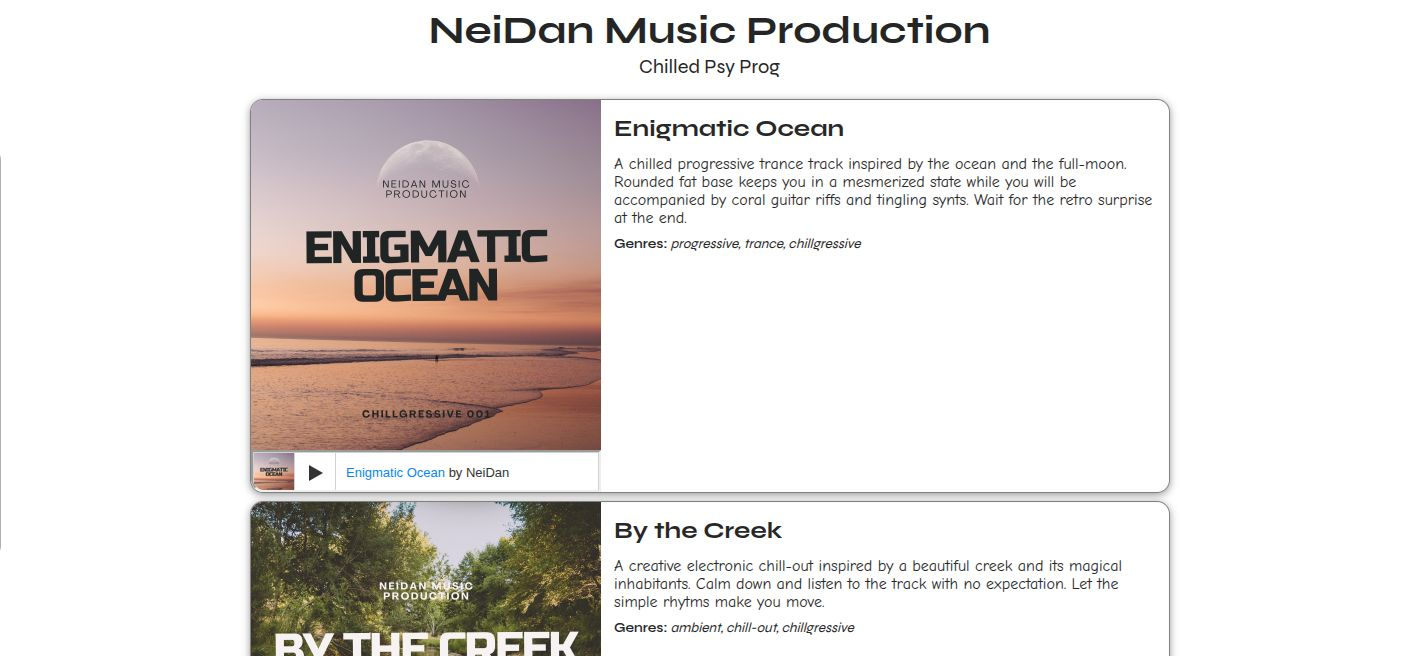
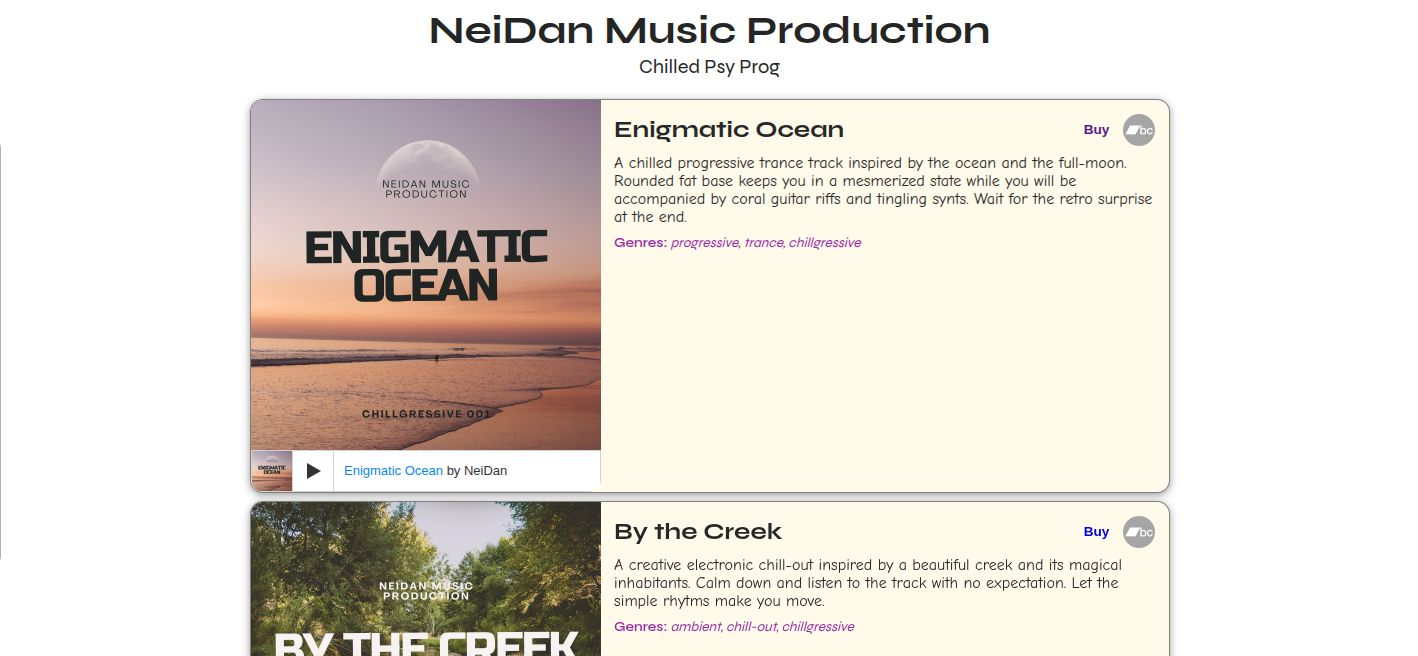
added about button updated image

diff --git a/index.html b/index.html
@@ -52,7 +52,7 @@
                 </div>
 
                 <div class="mid-item">
-                   <p class="text-white mb-2">Latest Projects</p>
+                    <p class="text-white mb-2">Latest Projects</p>
                     <div id="latest-carousel" class="carousel slide" data-bs-ride="false">
                         <p class="text-white mb-2">LOADING...</p>
                         <!--Dynamic Carousel Content form latestData through renderCarousel-->
@@ -66,9 +66,7 @@
                                 <a class="c-btn c-btn-featured" href="#featured">Featured Projects</a>
                             </li>
                             <li>
-                                <a class="c-btn c-btn-all" href="https://zenidreney.github.io/portfolio/"
-                                    >All Projects</a
-                                >
+                                <a class="c-btn c-btn-all" href="https://about-zenid.netlify.app">About</a>
                             </li>
                             <li>
                                 <a class="c-btn c-btn-about" href="mailto:zenid@tuta.io">Contact</a>
@@ -90,18 +88,19 @@
                 <div class="mid-item">
                     <p class="text-white mb-2">Featured Projects</p>
                     <div id="feat-carousel">
-                    <p class="text-white mb-2">LOADING...</p>
+                        <p class="text-white mb-2">LOADING...</p>
                         <!--Dynamic carousel from featuredData through renderCarousel -->
                     </div>
                 </div>
 
                 <div class="low-item">
                     <nav aria-label="Site Navigation.">
-                        <ul><li>
+                        <ul>
+                            <li>
                                 <a class="c-btn c-btn-featured" href="#older">Older Projects</a>
                             </li>
                             <li>
-                                <a class="c-btn-all" href="https://zenidreney.github.io/portfolio/">All Projects</a>
+                                <a class="c-btn c-btn-all" href="https://about-zenid.netlify.app">About</a>
                             </li>
                             <li>
                                 <a class="c-btn-about" href="mailto:zenid@tuta.io">Contact</a>
@@ -111,7 +110,7 @@
                 </div>
             </div>
         </section>
-        
+
         <!----------OLDER PROJECTS SECTION---------->
 
         <section id="older" class="older" role="region" aria-label="Featured Projects">
@@ -123,7 +122,7 @@
                 <div class="mid-item">
                     <p class="text-white mb-2">Older Projects</p>
                     <div id="older-carousel">
-                    <p class="text-white mb-2">LOADING...</p>
+                        <p class="text-white mb-2">LOADING...</p>
                         <!--Dynamic carousel from featuredData through renderCarousel -->
                     </div>
                 </div>
@@ -131,11 +130,11 @@
                 <div class="low-item">
                     <nav aria-label="Site Navigation.">
                         <ul>
-                           <li>
+                            <li>
                                 <a class="c-btn c-btn-featured" href="#landing">Latest Projects</a>
                             </li>
                             <li>
-                                <a class="c-btn-all" href="https://zenidreney.github.io/portfolio/">All Projects</a>
+                                <a class="c-btn c-btn-all" href="https://about-zenid.netlify.app">About</a>
                             </li>
                             <li>
                                 <a class="c-btn-about" href="mailto:zenid@tuta.io">Contact</a>
